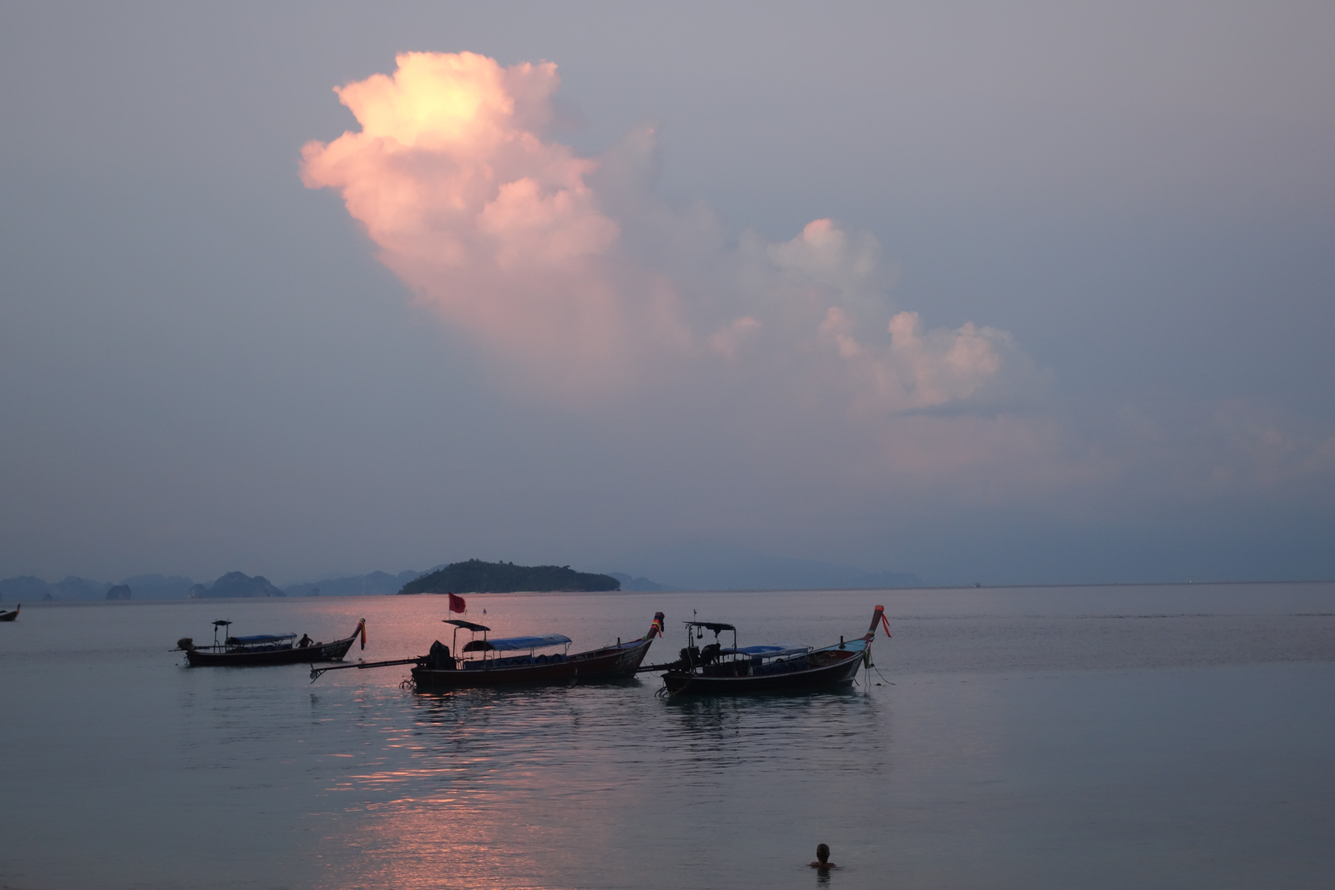
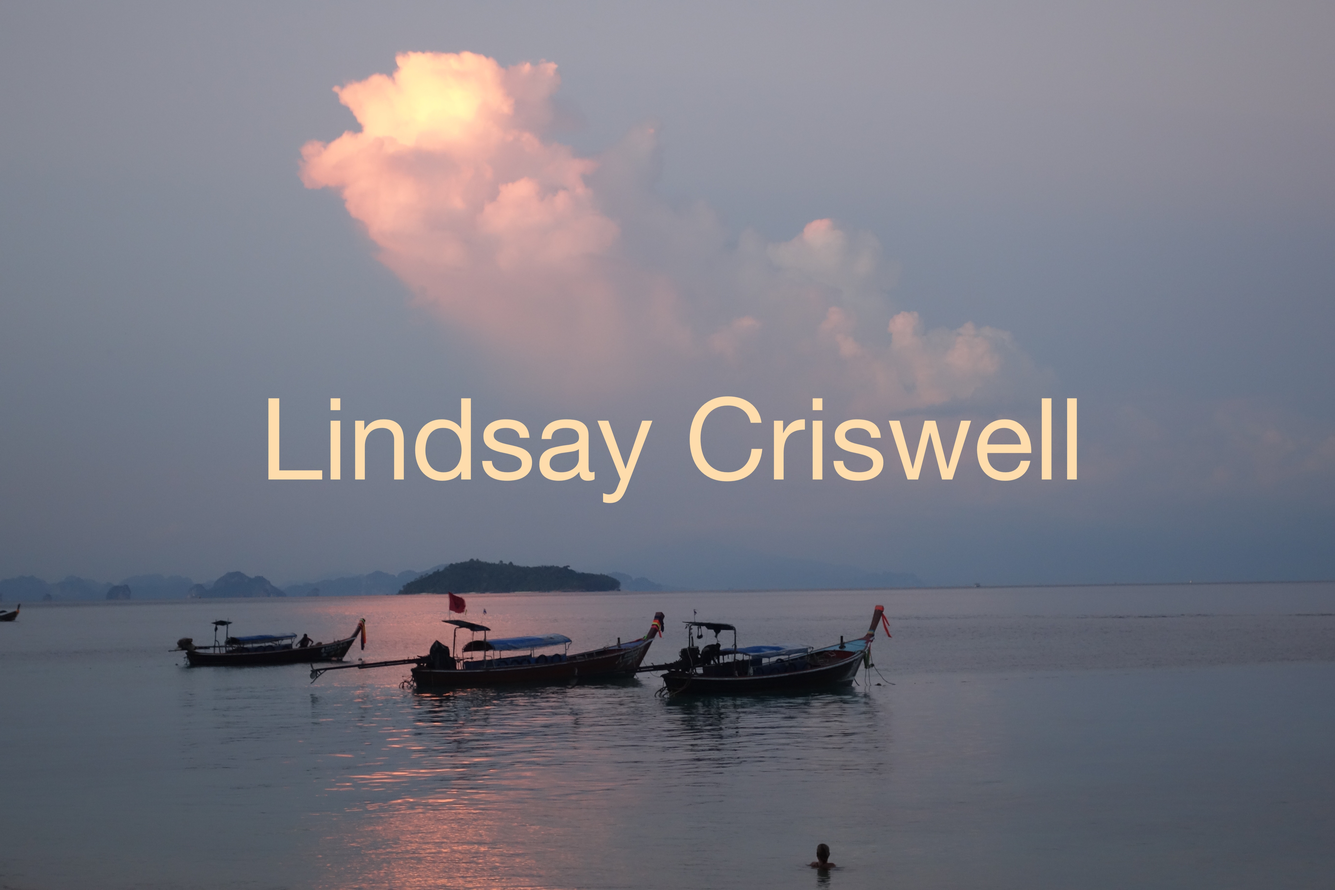
still messing with top image

Changed region(s): [[0.1875, 0.4375, 0.8125, 0.5625]]

diff --git a/src/App.css b/src/App.css
@@ -12,11 +12,15 @@ body {
 #topImage {
   background-image: url("./Components/photos/top-photo.jpg");
   height: 125vh;
-  width: 100vw;
+  width: 125vw;
   background-repeat: no-repeat;
   background-size: contain;
 }
-
+/*
+#LCheader {
+  color: rgb(255, 231, 174);
+  font-size: 500%;
+}*/
 /*.page-divider {
   display: block;
   width: auto;

diff --git a/src/App.js b/src/App.js
@@ -7,6 +7,7 @@ class App extends Component {
     return (
       <div className="App">
         <BannerImage />
+        <h1>WORK</h1>
       </div>
     );
   }
